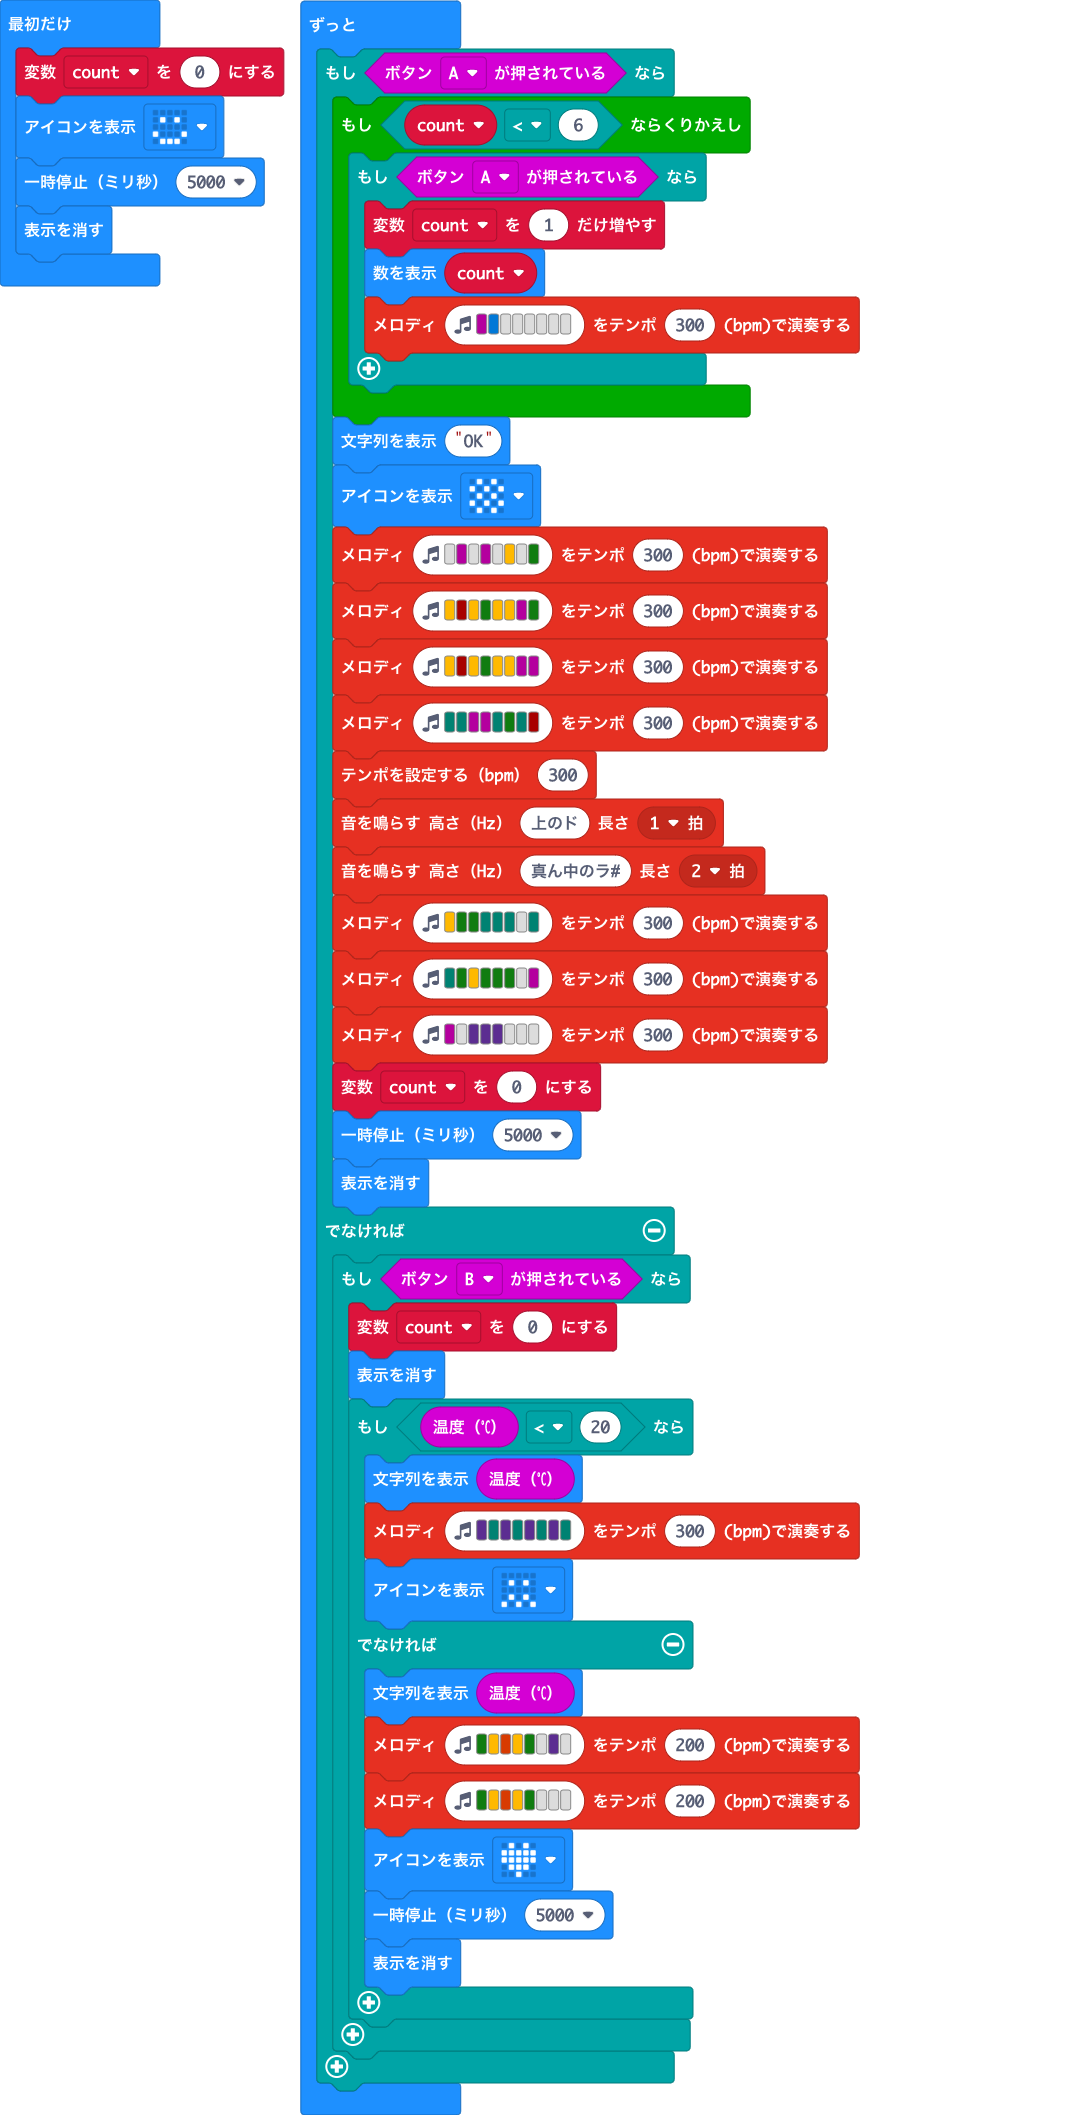
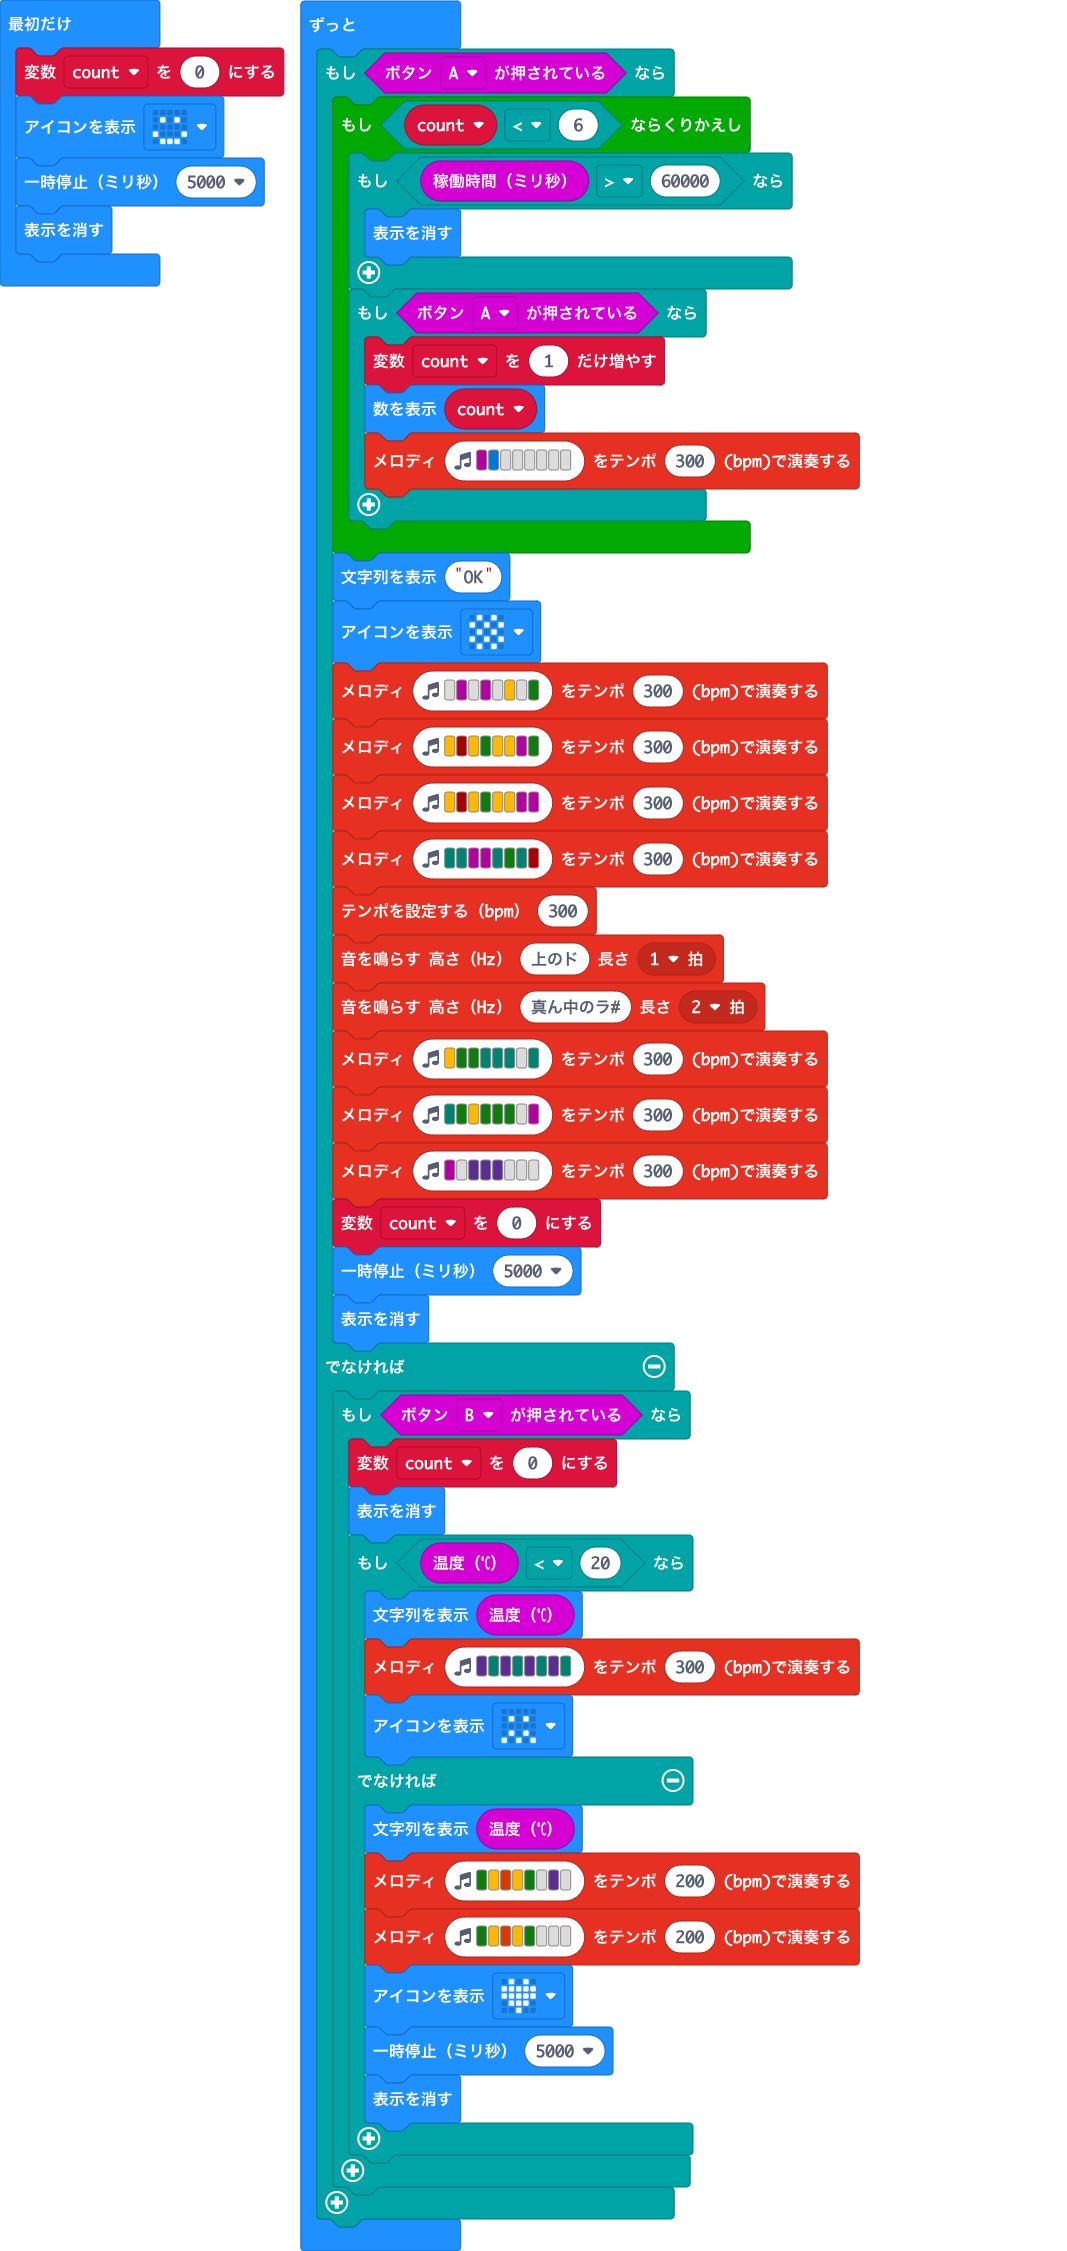
Update main.blocks, main.ts

Changed region(s): [[0.3093, 0.0, 0.8041, 0.9986], [0.0, 0.0, 0.2784, 0.156]]

diff --git a/main.ts b/main.ts
@@ -5,6 +5,9 @@ basic.clearScreen()
 basic.forever(function () {
     if (input.buttonIsPressed(Button.A)) {
         while (count < 6) {
+            if (input.runningTime() > 60000) {
+                basic.clearScreen()
+            }
             if (input.buttonIsPressed(Button.A)) {
                 count += 1
                 basic.showNumber(count)
